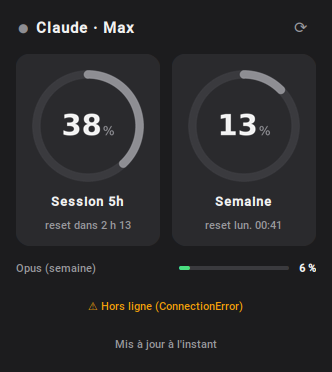
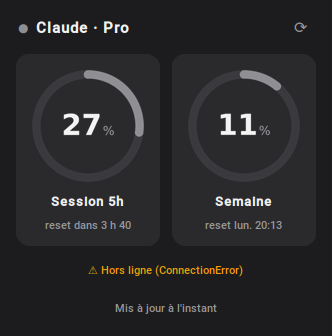
Make demo mode unmistakable and hide quotas that don't apply
- Demo data now looks like a Pro account, rises 3 % per refresh with stable
  reset countdowns, and is flagged with a DÉMO badge and a [Démo] tooltip
- Secondary weekly quotas (Opus/Sonnet) are only shown when active, so Pro
  accounts no longer get an empty Opus bar
- README explains demo vs real data and what the Opus line means

Claude-Session: https://claude.ai/code/session_01XNvJMCE88LPyoby8H9NRH7

diff --git a/src/claude_tracker/__main__.py b/src/claude_tracker/__main__.py
@@ -3,7 +3,6 @@
 from __future__ import annotations
 
 import argparse
-import itertools
 import sys
 from datetime import datetime, timedelta, timezone
 
@@ -13,20 +12,25 @@ from .usage_client import UsageSnapshot, UsageWindow
 
 
 class DemoFetcher:
-    """Fausses données qui évoluent à chaque appel, pour tester l'interface."""
+    """Fausses données (offre Pro) qui montent doucement, pour tester l'interface."""
+
+    STEP = 3.0
 
     def __init__(self) -> None:
-        self._values = itertools.cycle([12, 38, 64, 81, 97])
+        start = datetime.now(timezone.utc)
+        self._session_reset = start + timedelta(hours=5)
+        self._weekly_reset = start + timedelta(days=7)
+        self._session = 5.0 - self.STEP
 
     def fetch(self) -> UsageSnapshot:
-        now = datetime.now(timezone.utc)
-        v = float(next(self._values))
+        self._session += self.STEP
+        if self._session > 100:
+            self._session = 5.0
         windows = {
-            "five_hour": UsageWindow("five_hour", "Session 5h", v, now + timedelta(hours=2, minutes=14)),
-            "seven_day": UsageWindow("seven_day", "Semaine", v / 3, now + timedelta(days=3, hours=5)),
-            "seven_day_opus": UsageWindow("seven_day_opus", "Opus (semaine)", v / 6, now + timedelta(days=3)),
+            "five_hour": UsageWindow("five_hour", "Session 5h", self._session, self._session_reset),
+            "seven_day": UsageWindow("seven_day", "Semaine", 10 + self._session / 4, self._weekly_reset),
         }
-        return UsageSnapshot(windows=windows, plan="max")
+        return UsageSnapshot(windows=windows, plan="pro", demo=True)
 
 
 def _single_instance() -> bool:

diff --git a/tests/test_usage_client.py b/tests/test_usage_client.py
@@ -47,8 +47,23 @@ def test_parse_full_payload():
     assert snap.session.utilization == 42.0
     assert snap.session.resets_at == datetime(2026, 10, 1, 16, 30, 0, 123456, tzinfo=timezone.utc)
     assert snap.weekly.utilization == 18.0
-    assert [w.key for w in snap.extras] == ["seven_day_opus"]
-    assert snap.extras[0].resets_at is None
+    assert snap.windows["seven_day_opus"].resets_at is None
+    assert snap.extras == []  # Opus à 0 % sans reset : non applicable
+
+
+def test_extras_only_when_active():
+    payload = dict(SAMPLE, seven_day_opus={"utilization": 12, "resets_at": "2026-10-04T10:00:00Z"})
+    assert [w.key for w in uc.parse_usage(payload).extras] == ["seven_day_opus"]
+
+
+def test_pro_payload_has_no_extras():
+    payload = {
+        "five_hour": {"utilization": 30, "resets_at": "2026-10-01T16:30:00Z"},
+        "seven_day": {"utilization": 9, "resets_at": "2026-10-04T10:00:00Z"},
+        "seven_day_opus": None,
+        "seven_day_sonnet": None,
+    }
+    assert uc.parse_usage(payload, plan="pro").extras == []
 
 
 def test_parse_ignores_missing_and_null():
@@ -134,3 +149,5 @@ def test_formatting():
     tip = tooltip(uc.parse_usage(SAMPLE))
     assert "Session 5h : 42 %" in tip and "Semaine : 18 %" in tip
     assert len(tooltip(None, "x" * 300)) <= 127
+    demo = uc.UsageSnapshot(windows=uc.parse_usage(SAMPLE).windows, demo=True)
+    assert tooltip(demo).startswith("[Démo] ")

diff --git a/src/claude_tracker/popup.py b/src/claude_tracker/popup.py
@@ -110,6 +110,10 @@ class UsagePopup(ctk.CTkToplevel):
             header, text="Claude", text_color=render.TEXT, font=ctk.CTkFont(size=15, weight="bold")
         )
         self.plan_label.pack(side="left", padx=(6, 0))
+        self.demo_badge = ctk.CTkLabel(
+            header, text=" DÉMO ", fg_color=render.ACCENT, text_color=render.BG, corner_radius=6,
+            font=ctk.CTkFont(size=10, weight="bold"), height=18,
+        )
         self.refresh_btn = ctk.CTkButton(
             header, text="⟳", width=30, height=28, corner_radius=8, fg_color="transparent",
             hover_color=render.CARD, text_color=render.TEXT_MUTED, font=ctk.CTkFont(size=16),
@@ -145,6 +149,10 @@ class UsagePopup(ctk.CTkToplevel):
         self._snapshot = snapshot
         offline = error is not None
         self.plan_label.configure(text=plan_label(snapshot.plan if snapshot else None))
+        if snapshot and snapshot.demo:
+            self.demo_badge.pack(side="left", padx=(8, 0))
+        else:
+            self.demo_badge.pack_forget()
         self.dot.configure(text_color=render.GREY if offline or not snapshot else render.ACCENT)
         self.session_card.set(snapshot.session if snapshot else None, offline)
         self.weekly_card.set(snapshot.weekly if snapshot else None, offline)

diff --git a/src/claude_tracker/usage_client.py b/src/claude_tracker/usage_client.py
@@ -70,6 +70,7 @@ class UsageSnapshot:
     windows: dict[str, UsageWindow]
     plan: str | None = None
     fetched_at: datetime = field(default_factory=lambda: datetime.now(timezone.utc))
+    demo: bool = False  # fausses données (--demo)
 
     @property
     def session(self) -> UsageWindow | None:
@@ -81,7 +82,12 @@ class UsageSnapshot:
 
     @property
     def extras(self) -> list[UsageWindow]:
-        return [w for k, w in self.windows.items() if k not in ("five_hour", "seven_day")]
+        # Quotas secondaires (ex. Opus sur Max). Sur Pro, l'API les renvoie à 0 %
+        # sans date de reset : ils ne s'appliquent pas, on les masque.
+        return [
+            w for k, w in self.windows.items()
+            if k not in ("five_hour", "seven_day") and (w.resets_at is not None or w.utilization > 0)
+        ]
 
 
 @dataclass

diff --git a/tests/test_demo.py b/tests/test_demo.py
@@ -1,0 +1,18 @@
+from claude_tracker.__main__ import DemoFetcher
+
+
+def test_demo_is_smooth_pro_and_flagged():
+    fetcher = DemoFetcher()
+    a, b = fetcher.fetch(), fetcher.fetch()
+    assert a.demo and b.demo
+    assert a.plan == "pro"
+    assert a.extras == []
+    assert 0 < b.session.utilization - a.session.utilization <= 3
+    assert a.session.resets_at == b.session.resets_at  # compte à rebours stable
+
+
+def test_demo_wraps_around():
+    fetcher = DemoFetcher()
+    values = [fetcher.fetch().session.utilization for _ in range(40)]
+    assert max(values) <= 100
+    assert min(values) >= 5

diff --git a/src/claude_tracker/formatting.py b/src/claude_tracker/formatting.py
@@ -70,6 +70,8 @@ def tooltip(snapshot: UsageSnapshot | None, error: str | None = None) -> str:
     if w:
         parts.append(f"Semaine : {round(w.utilization)} %")
     text = "\n".join(parts) or "Claude Usage"
+    if snapshot.demo:
+        text = "[Démo] " + text
     if error:
         text += "\n(hors ligne)"
     return text[:127]

diff --git a/README.md b/README.md
@@ -12,7 +12,7 @@ avec leurs heures de reset. Ce sont les mêmes chiffres que `/usage` dans Claude
 <p align="center"><img src="docs/tray-icons.png" alt="Icônes du tray" width="380"></p>
 
 - **Icône** : un anneau qui se remplit (vert < 60 %, orange < 85 %, rouge au-delà), avec le % au centre.
-- **Clic gauche** : mini-fenêtre avec les deux jauges, le compte à rebours avant reset et la jauge Opus/Sonnet si ton offre en a une.
+- **Clic gauche** : mini-fenêtre avec les deux jauges et le compte à rebours avant reset. Une ligne « Opus (semaine) » s'ajoute en bas uniquement sur les offres **Max**, qui ont un quota hebdo séparé pour Opus. Sur **Pro**, elle n'apparaît pas.
 - **Clic droit** : Rafraîchir, choix de la valeur affichée dans l'icône (session, semaine ou la plus élevée), lancement au démarrage de Windows, Quitter.
 - **Notifications** quand la session ou la semaine dépasse 80 % puis 95 %.
 - Survole l'icône pour un résumé dans l'infobulle.
@@ -32,6 +32,15 @@ pip install -e .[dev]
 python -m claude_tracker          # vraie appli
 python -m claude_tracker --demo   # fausses données, pour voir le rendu
 ```
+
+### Mode démo ou vraies données ?
+
+`--demo` affiche des **valeurs inventées** qui montent de 3 % à chaque actualisation. Le popup porte alors
+un badge orange **DÉMO** et l'infobulle commence par `[Démo]`. Pour voir tes vrais chiffres, lance
+`python -m claude_tracker` **sans option**, ou l'exe. L'offre affichée (« Claude · Pro ») vient
+alors de ton compte, et les % doivent correspondre à `/usage` dans Claude Code.
+
+<p align="center"><img src="docs/popup-demo.png" alt="Popup en mode démo" width="300"></p>
 
 ## Construire l'exécutable
 
